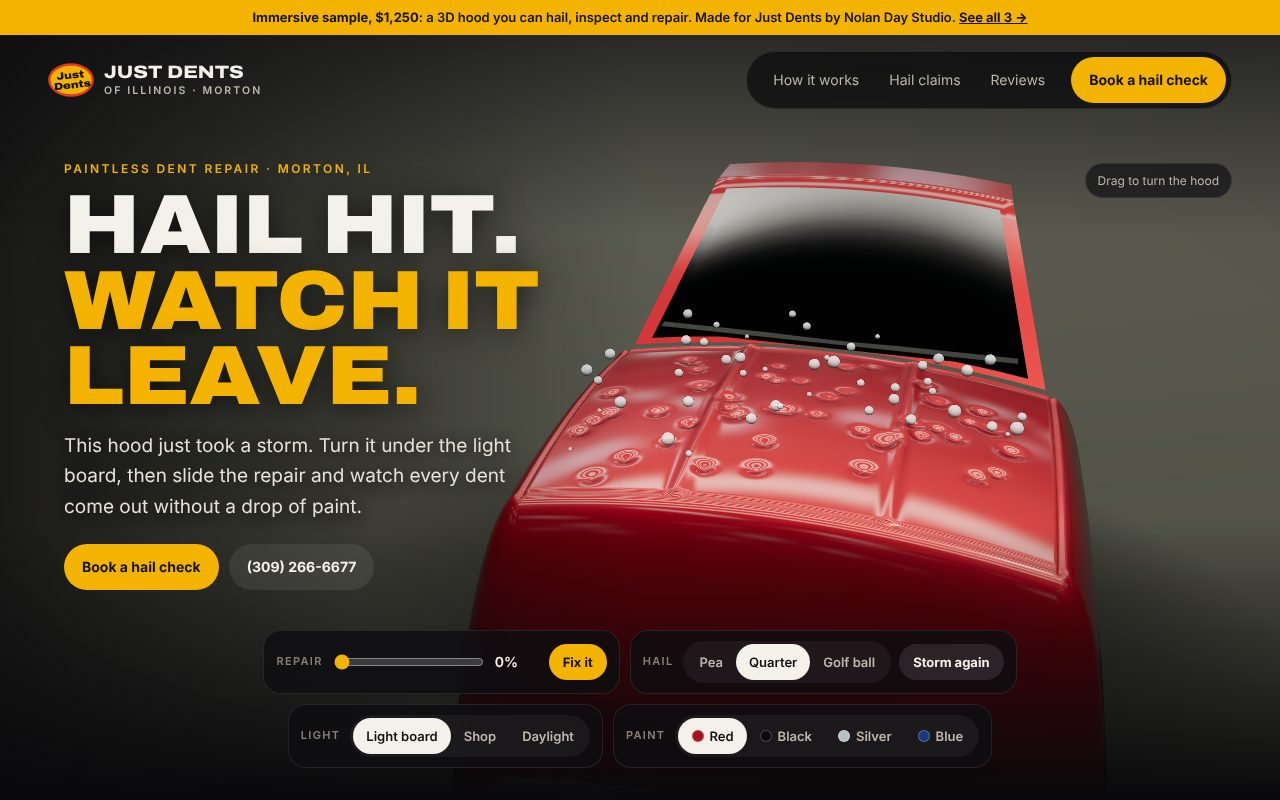
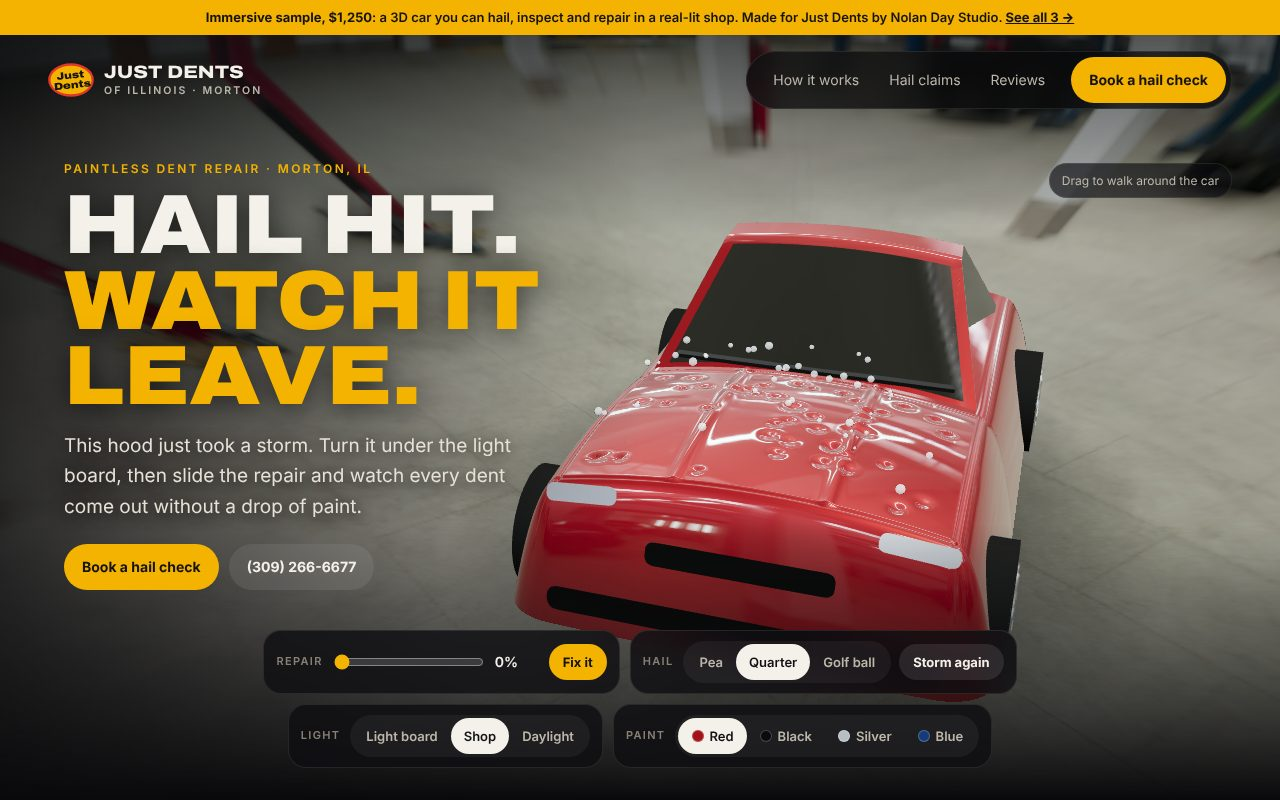
feat: $1,250 Just Dents car now sits in a full 3D auto shop
- Ground-projected CC0 auto-shop HDRI: the car stands on the shop floor with lifts and bays around it (street for Daylight)
- Whole car: body behind the hood, side and rear glass, end cap, wheels with rims, headlights, grille and lower trim; body clipped at ride height
- Opens in the Shop view; light board and daylight are one tap away
- Fixed far-plane clipping that blacked out part of the backdrop; refreshed thumbnails

Claude-Session: https://claude.ai/code/session_015BTMUTNwHUdjmbTQmNjyDW

diff --git a/justdents1250/scene.js b/justdents1250/scene.js
@@ -4,6 +4,7 @@
 import * as THREE from "three";
 import {OrbitControls} from "three/addons/controls/OrbitControls.js";
 import {RGBELoader} from "three/addons/loaders/RGBELoader.js";
+import {GroundProjectedSkybox} from "three/addons/objects/GroundProjectedSkybox.js";
 
 const S=window.HOOD;
 const canvas=document.getElementById("c"),host=document.querySelector(".scene");
@@ -11,10 +12,10 @@ const reduce=matchMedia("(prefers-reduced-motion: reduce)").matches;
 const small=innerWidth<760||matchMedia("(pointer: coarse)").matches;
 let R;try{R=new THREE.WebGLRenderer({canvas,antialias:!small,alpha:true,powerPreference:"high-performance"})}catch(e){host.classList.add("noGL");throw e}
 R.setPixelRatio(Math.min(devicePixelRatio,small?1.5:2));
-R.toneMapping=THREE.ACESFilmicToneMapping;R.toneMappingExposure=1.05;
+R.toneMapping=THREE.ACESFilmicToneMapping;R.localClippingEnabled=true;const CLIP=[new THREE.Plane(new THREE.Vector3(0,1,0),2.42)];R.toneMappingExposure=1.05;
 
 const scene=new THREE.Scene();
-const cam=new THREE.PerspectiveCamera(34,1,.1,200);
+const cam=new THREE.PerspectiveCamera(34,1,.1,600);
 const ctl=new OrbitControls(cam,canvas);ctl.enableDamping=true;ctl.dampingFactor=.07;ctl.enablePan=false;
 ctl.minPolarAngle=Math.PI*.16;ctl.maxPolarAngle=Math.PI*.44;ctl.minAzimuthAngle=-1.05;ctl.maxAzimuthAngle=1.05;
 ctl.autoRotate=!reduce;ctl.autoRotateSpeed=.35;
@@ -37,7 +38,12 @@ let envDay=pm.fromScene(day,.06).texture,envShop=null,bgShop=null,bgDay=null;sce
 // real lighting: a CC0 auto-shop HDRI for the room and its fluorescent tubes, a CC0 street HDRI for daylight
 const here=new URL(".",import.meta.url).href,hdr=new RGBELoader();
 function asEnv(t){t.mapping=THREE.EquirectangularReflectionMapping;return t}
-function setBg(){const v=S.view||"board";const bg=v==="day"?bgDay:bgShop;scene.background=bg||null;scene.backgroundBlurriness=v==="day"?.2:.24;scene.backgroundIntensity=v==="board"?.3:v==="day"?.85:.75}
+const SKY={shop:{h:4.2,r:70},day:{h:4.2,r:90}};let sky=null;
+function makeSky(t){const k=new GroundProjectedSkybox(t,{height:4.2,radius:70});
+  k.material.fragmentShader=k.material.fragmentShader.replace("camPos.y -= height;","camPos.y -= height + floorY;").replace("uniform float height;","uniform float height;uniform float floorY;uniform float dim;").replace("gl_FragColor = vec4( outcolor, 1.0 );","gl_FragColor = vec4( outcolor*dim, 1.0 );");
+  k.material.uniforms.floorY={value:-2.75};k.material.uniforms.dim={value:1};k.scale.setScalar(120);k.renderOrder=-1;scene.add(k);return k}
+function setBg(){const v=S.view||"board";const bg=v==="day"?(bgDay||bgShop):bgShop;if(!bg){scene.background=null;return}
+  if(!sky)sky=makeSky(bg);sky.material.uniforms.map.value=bg;const c=SKY[v==="day"&&bgDay?"day":"shop"];sky.height=c.h;sky.radius=c.r;sky.material.uniforms.dim.value=v==="board"?.28:v==="day"?.95:.85;scene.background=null}
 hdr.loadAsync(here+"env/autoshop_01_1k.hdr").then(t=>{bgShop=asEnv(t);envShop=pm.fromEquirectangular(t).texture;
   const sm=t.clone();sm.mapping=THREE.UVMapping;sm.needsUpdate=true;shopSphere.material.map=sm;shopSphere.material.visible=true;shopSphere.material.needsUpdate=true;
   envBoard=pm.fromScene(env,.02).texture;
@@ -59,7 +65,7 @@ function crown(x,y){const lx=Math.abs(x);let z=-.3*(x/2.8)**2-.15*((y+.3)/2)**2;
   if(y>1.9)z+=.6*(y-1.9)**2;return z}
 for(let i=0;i<N;i++){const x=pos.getX(i),y=pos.getY(i)-.3;XS[i]=x;YS[i]=y;base[i]=crown(x,y);pos.setXYZ(i,x,y,base[i])}
 geo.computeVertexNormals();
-const paint=new THREE.MeshPhysicalMaterial({color:S.paint,metalness:.5,roughness:.36,clearcoat:1,clearcoatRoughness:.02,envMapIntensity:1.25});
+const paint=new THREE.MeshPhysicalMaterial({color:S.paint,metalness:.5,roughness:.36,clearcoat:1,clearcoatRoughness:.02,envMapIntensity:1.25,clippingPlanes:CLIP});
 const hood=new THREE.Mesh(geo,paint);hood.rotation.x=-Math.PI/2;scene.add(hood);
 const bodyM=paint;
 // cabin behind the hood: painted pillars and roof with the windshield set into them, so it reads as a car
@@ -73,9 +79,39 @@ const shell=new THREE.Mesh(cabGeo(0,1.4,0),paint);shell.rotation.x=-Math.PI/2;sc
 const glass=new THREE.MeshPhysicalMaterial({color:0x07090c,metalness:.2,roughness:.03,clearcoat:1,clearcoatRoughness:.01,envMapIntensity:1.8});
 const shield=new THREE.Mesh(cabGeo(.03,.94,.2),glass);shield.rotation.x=-Math.PI/2;scene.add(shield);
 const cowl=new THREE.Mesh(new THREE.BoxGeometry(4.5,.06,.16),new THREE.MeshStandardMaterial({color:0x0b0b0c,roughness:.6}));cowl.position.set(0,Z0+.05,-2.2);scene.add(cowl);
+
+// ---------- the rest of the car: body behind the hood, side and rear glass, end cap, wheels, lights, grille ----------
+const G=-2.75;// shop floor height (world y)
+const BY0=2.1,BY1=7.6;// body runs from the cowl back to the tail (hood-local y)
+function part(geo,mat){const m=new THREE.Mesh(geo,mat);hood.add(m);return m}
+{const g=new THREE.PlaneGeometry(7.2,BY1-BY0,90,20),a=g.attributes.position;for(let i=0;i<a.count;i++){const x=a.getX(i),y=a.getY(i)+(BY0+BY1)/2;a.setXYZ(i,x,y,crown(x,BY0)+.002)}g.computeVertexNormals();part(g,paint)}
+const glassS=new THREE.MeshPhysicalMaterial({color:0x07090c,metalness:.2,roughness:.04,clearcoat:1,clearcoatRoughness:.02,envMapIntensity:1.7,side:THREE.DoubleSide});
+function rearPt(u,v){const [x0,y0,z0]=cab(0,1.4,0);const hw=1.96+v*.6;return[u*hw,y0+v*1.75,(z0-.26*((u*hw/2.7)**2))-v*1.55]}
+{const g=new THREE.PlaneGeometry(1,1,20,6),a=g.attributes.position;for(let i=0;i<a.count;i++){const u=a.getX(i)*2,v=a.getY(i)+.5;a.setXYZ(i,...rearPt(u,v))}g.computeVertexNormals();part(g,glassS)}
+for(const sg of[-1,1]){const n=30,pts=[],idx=[];
+  for(let k=0;k<=n;k++){const t=k/n*1.4;const [x,y,z]=cab(sg,t,0);pts.push(x,y,z,x,y,crown(x,BY0)+.01)}
+  for(let k=0;k<=12;k++){const [x,y,z]=rearPt(sg,k/12);pts.push(x,y,z,x,y,crown(x,BY0)+.01)}
+  const m=(pts.length/6)-1;for(let k=0;k<m;k++){const a=k*2;idx.push(a,a+1,a+2,a+1,a+3,a+2)}
+  const g=new THREE.BufferGeometry();g.setAttribute("position",new THREE.Float32BufferAttribute(pts,3));g.setIndex(idx);g.computeVertexNormals();part(g,glassS)}
+{const sh=new THREE.Shape();sh.moveTo(-3.6,G-.0);for(let x=-3.6;x<=3.6001;x+=.15)sh.lineTo(x,Math.max(crown(x,BY0),G));sh.lineTo(3.6,G);sh.closePath();
+  const cap=new THREE.Mesh(new THREE.ShapeGeometry(sh),new THREE.MeshPhysicalMaterial({color:0x15100f,roughness:.5,side:THREE.DoubleSide}));cap.rotation.x=Math.PI/2;cap.position.y=BY1;hood.add(cap)}
+const tireM=new THREE.MeshStandardMaterial({color:0x101010,roughness:.88}),rimM=new THREE.MeshStandardMaterial({color:0xb9bcc0,metalness:1,roughness:.22});
+for(const wy of[-.95,5.95])for(const sg of[-1,1]){const w=new THREE.Group();
+  const t=new THREE.Mesh(new THREE.CylinderGeometry(.92,.92,.78,40),tireM);t.rotation.z=Math.PI/2;w.add(t);
+  const r=new THREE.Mesh(new THREE.CylinderGeometry(.6,.6,.84,28),rimM);r.rotation.z=Math.PI/2;w.add(r);
+  for(let k=0;k<5;k++){const sp=new THREE.Mesh(new THREE.BoxGeometry(.06,.9,.12),rimM);sp.position.x=sg*.41;sp.rotation.x=k/5*Math.PI*2;w.add(sp)}
+  w.position.set(sg*3.12,G+.92,-wy);w.rotation.x=0;scene.add(w)}
+function onSurface(mesh,x,y,lift){const e=.02,z=crown(x,y);const nx=-(crown(x+e,y)-crown(x-e,y))/(2*e),ny=-(crown(x,y+e)-crown(x,y-e))/(2*e);
+  const n=new THREE.Vector3(nx,ny,1).normalize();mesh.position.set(x,y,z+lift);mesh.lookAt(mesh.position.clone().add(n));hood.add(mesh);return mesh}
+const lampM=new THREE.MeshPhysicalMaterial({color:0x9aa3ad,emissive:0xdfeaff,emissiveIntensity:.4,metalness:.9,roughness:.06,clearcoat:1});
+function rr(w,h,r){const sh=new THREE.Shape();sh.moveTo(-w/2+r,-h/2);sh.lineTo(w/2-r,-h/2);sh.quadraticCurveTo(w/2,-h/2,w/2,-h/2+r);sh.lineTo(w/2,h/2-r);sh.quadraticCurveTo(w/2,h/2,w/2-r,h/2);sh.lineTo(-w/2+r,h/2);sh.quadraticCurveTo(-w/2,h/2,-w/2,h/2-r);sh.lineTo(-w/2,-h/2+r);sh.quadraticCurveTo(-w/2,-h/2,-w/2+r,-h/2);return new THREE.ShapeGeometry(sh,6)}
+for(const sg of[-1,1]){const l=new THREE.Mesh(rr(1.05,.26,.12),lampM);onSurface(l,sg*2.3,-2.12,.015);l.rotateZ(sg*.08)}
+const trimM=new THREE.MeshStandardMaterial({color:0x0c0c0d,metalness:.4,roughness:.45});
+onSurface(new THREE.Mesh(rr(2.6,.34,.14),trimM),0,-2.36,.015);
+onSurface(new THREE.Mesh(rr(5.4,.36,.18),trimM),0,-2.52,.015);
 // soft contact shadow
 const sc=document.createElement("canvas");sc.width=sc.height=128;const sx=sc.getContext("2d"),gr=sx.createRadialGradient(64,64,4,64,64,64);gr.addColorStop(0,"rgba(0,0,0,.8)");gr.addColorStop(1,"rgba(0,0,0,0)");sx.fillStyle=gr;sx.fillRect(0,0,128,128);
-const shadow=new THREE.Mesh(new THREE.PlaneGeometry(11,8),new THREE.MeshBasicMaterial({map:new THREE.CanvasTexture(sc),transparent:true,depthWrite:false}));shadow.rotation.x=-Math.PI/2;shadow.position.y=-2.4;scene.add(shadow);
+const shadow=new THREE.Mesh(new THREE.PlaneGeometry(11,8),new THREE.MeshBasicMaterial({map:new THREE.CanvasTexture(sc),transparent:true,depthWrite:false}));shadow.rotation.x=-Math.PI/2;shadow.position.y=-2.73;shadow.scale.set(1.05,1.8,1);shadow.position.z=-2.4;scene.add(shadow);
 
 // the light board itself, hanging above the hood
 const bc=document.createElement("canvas");bc.width=512;bc.height=256;const bx=bc.getContext("2d");bx.fillStyle="#0d0c0a";bx.fillRect(0,0,512,256);
@@ -115,7 +151,7 @@ addEventListener("hoodauto",()=>{if(S.fix>=100)storm();S.anim=true;S.a0=performa
 // ---------- frame ----------
 function fit(){const w=host.clientWidth,h=host.clientHeight;R.setSize(w,h,false);cam.aspect=w/h;
   const narrow=w/h<1;cam.fov=narrow?46:34;cam.updateProjectionMatrix();
-  board.visible=pole.visible=false;const dist=narrow?16.5:12.5;cam.position.set(narrow?0:1.6,dist*(narrow?.6:.5),dist);ctl.target.set(narrow?0:-1.9,narrow?2.6:-.25,.2);ctl.update()}
+  board.visible=pole.visible=false;const dist=narrow?19:16;cam.position.set(narrow?0:3.4,dist*(narrow?.55:.5),dist);ctl.target.set(narrow?0:-2.7,narrow?1.2:-1.1,-1.6);ctl.update()}
 addEventListener("resize",fit);fit();
 let vis=true;new IntersectionObserver(e=>{vis=e[0].isIntersecting}).observe(host);
 let last=performance.now(),sent=0;

diff --git a/justdents1250/index.html b/justdents1250/index.html
@@ -87,11 +87,11 @@ footer{border-top:1px solid var(--line);padding:28px clamp(16px,5vw,64px) 40px;c
 <script type="application/ld+json">{"@context":"https://schema.org","@type":"AutoBodyShop","name":"Just Dents of Illinois, Inc.","description":"Paintless dent repair in Morton, Illinois: hail damage, door dings, dents and creases, and dealer lot work.","telephone":"+1-309-266-6677","address":{"@type":"PostalAddress","streetAddress":"832 N Main St","addressLocality":"Morton","addressRegion":"IL","postalCode":"61550","addressCountry":"US"},"areaServed":["Morton","Washington","East Peoria","Peoria","Pekin","Tremont","Deer Creek","Mackinaw","Groveland","Eureka","Goodfield","Metamora","Germantown Hills"],"aggregateRating":{"@type":"AggregateRating","ratingValue":"5.0","reviewCount":"16"},"makesOffer":[{"@type":"Offer","itemOffered":{"@type":"Service","name":"Paintless dent repair"}},{"@type":"Offer","itemOffered":{"@type":"Service","name":"Hail damage repair"}},{"@type":"Offer","itemOffered":{"@type":"Service","name":"Door ding repair"}},{"@type":"Offer","itemOffered":{"@type":"Service","name":"Dealer and lot dent service"}}]}</script>
 </head>
 <body>
-<div class="demo"><b>Immersive sample, $1,250</b><span class="lg">: a 3D hood you can hail, inspect and repair. Made for Just Dents by Nolan Day Studio</span>. <a href="https://nday27.github.io/meet/?s=just-dents-of-illinois-inc-morton">See all 3 →</a></div>
+<div class="demo"><b>Immersive sample, $1,250</b><span class="lg">: a 3D car you can hail, inspect and repair in a real-lit shop. Made for Just Dents by Nolan Day Studio</span>. <a href="https://nday27.github.io/meet/?s=just-dents-of-illinois-inc-morton">See all 3 →</a></div>
 <nav><a class="logo" href="#"><svg viewBox="0 0 52 38" aria-hidden="true"><ellipse cx="26" cy="19" rx="24.5" ry="17.5" fill="#F5B301" stroke="#E0382B" stroke-width="2.6"/><text x="26" y="17.5" font-family="Archivo,Arial" font-weight="900" font-size="11.5" text-anchor="middle" fill="#15130F" transform="rotate(-6 26 19)">Just</text><text x="27" y="28.5" font-family="Archivo,Arial" font-weight="900" font-size="11.5" text-anchor="middle" fill="#15130F" transform="rotate(-6 26 19)">Dents</text></svg><span>Just Dents<small>of Illinois · Morton</small></span></a><div class="links"><a href="#how">How it works</a><a href="#claim">Hail claims</a><a href="#reviews">Reviews</a><a class="pillbtn" href="#book" style="margin-left:22px">Book<span class="lg">&nbsp;a hail check</span></a></div></nav>
 
 <header class="scene" id="top">
-  <canvas id="c" aria-label="Interactive 3D car hood under a dent repair light board. Drag to turn it. Use the controls to drop hail, change the paint color and slide the repair from dented to fixed."></canvas>
+  <canvas id="c" aria-label="Interactive 3D car in an auto shop, with a dent repair light board view. Drag to walk around it. Use the controls to drop hail, change the paint color and slide the repair from dented to fixed."></canvas>
   <div class="fallback"><div><b style="font:900 30px Archivo,sans-serif;color:#fff;text-transform:uppercase">Just Dents of Illinois</b><br>The 3D preview isn't available on this device. Everything below still works.</div></div>
   <div class="veil"></div>
   <div class="hcopy">
@@ -100,11 +100,11 @@ footer{border-top:1px solid var(--line);padding:28px clamp(16px,5vw,64px) 40px;c
     <p class="lede">This hood just took a storm. Turn it under the light board, then slide the repair and watch every dent come out without a drop of paint.</p>
     <div class="hcta"><a class="pillbtn" href="#book">Book a hail check</a><a class="pillbtn ghost" href="tel:+13092666677">(309) 266-6677</a></div>
   </div>
-  <div class="hint" id="hint">Drag to turn the hood</div>
+  <div class="hint" id="hint">Drag to walk around the car</div>
   <div class="dock" role="group" aria-label="Scene controls">
     <div class="panel"><label for="fix">Repair</label><input type="range" id="fix" min="0" max="100" step="1" value="0"><span class="out" id="fout">0%</span><button class="act" type="button" id="auto">Fix it</button></div>
     <div class="panel"><span class="lab">Hail</span><div class="seg" id="hail"><button aria-pressed="false" data-v="1">Pea</button><button aria-pressed="true" data-v="2">Quarter</button><button aria-pressed="false" data-v="3">Golf ball</button></div><button class="act sec" type="button" id="storm">Storm again</button></div>
-    <div class="panel"><span class="lab">Light</span><div class="seg" id="view"><button aria-pressed="true" data-v="board">Light board</button><button aria-pressed="false" data-v="shop">Shop</button><button aria-pressed="false" data-v="day">Daylight</button></div></div>
+    <div class="panel"><span class="lab">Light</span><div class="seg" id="view"><button aria-pressed="false" data-v="board">Light board</button><button aria-pressed="true" data-v="shop">Shop</button><button aria-pressed="false" data-v="day">Daylight</button></div></div>
     <div class="panel"><span class="lab">Paint</span><div class="seg" id="paint"><button aria-pressed="true" data-v="#a3121a"><i class="sw" style="background:#a3121a"></i>Red</button><button aria-pressed="false" data-v="#0b0b0d"><i class="sw" style="background:#0b0b0d"></i>Black</button><button aria-pressed="false" data-v="#b9bec4"><i class="sw" style="background:#b9bec4"></i>Silver</button><button aria-pressed="false" data-v="#173a78"><i class="sw" style="background:#173a78"></i>Blue</button></div></div>
   </div>
 </header>
@@ -127,7 +127,7 @@ footer{border-top:1px solid var(--line);padding:28px clamp(16px,5vw,64px) 40px;c
       <div class="crow"><span>Hail size</span><b id="cs">Quarter</b></div>
       <div class="crow"><span>Repair method</span><b>Paintless, from behind</b></div>
       <div class="crow"><span>Factory paint</span><b>Kept</b></div>
-      <div class="crow"><span>Inspection light</span><b id="cv">Light board: every dent shows</b></div>
+      <div class="crow"><span>Inspection light</span><b id="cv">Shop lights: most dents show</b></div>
       <div class="meter"><i id="cm"></i></div>
       <div class="big"><span>Repaired</span><b id="cp">0%</b></div>
       <p class="note">A demo of the 3D model on this page. A real hail check is done in person, panel by panel, by Kurt.</p>
@@ -171,7 +171,7 @@ footer{border-top:1px solid var(--line);padding:28px clamp(16px,5vw,64px) 40px;c
   if(!reduce)document.querySelectorAll("[data-tilt]").forEach(function(c){c.addEventListener("pointermove",function(e){var r=c.getBoundingClientRect(),x=(e.clientX-r.left)/r.width-.5,y=(e.clientY-r.top)/r.height-.5;c.style.transform="perspective(700px) rotateY("+(x*10)+"deg) rotateX("+(-y*10)+"deg)"});c.addEventListener("pointerleave",function(){c.style.transform=""})});
   document.getElementById("tf").addEventListener("submit",function(e){e.preventDefault();document.getElementById("tok").hidden=false});
   // shared state: the 3D scene and the claim card both read window.HOOD
-  var S=window.HOOD={fix:0,hail:2,paint:"#a3121a",dents:0},names={1:"Pea",2:"Quarter",3:"Golf ball"};
+  var S=window.HOOD={fix:0,hail:2,paint:"#a3121a",dents:0,view:"shop"},names={1:"Pea",2:"Quarter",3:"Golf ball"};
   function card(){document.getElementById("cn").textContent=S.dents;document.getElementById("cs").textContent=names[S.hail];document.getElementById("cp").textContent=Math.round(S.fix)+"%";document.getElementById("cm").style.width=S.fix+"%";document.getElementById("fout").textContent=Math.round(S.fix)+"%";document.getElementById("fix").value=Math.round(S.fix)}
   window.addEventListener("hoodstate",card);
   function seg(id,cb){var w=document.getElementById(id);w.addEventListener("click",function(e){var b=e.target.closest("button");if(!b)return;w.querySelectorAll("button").forEach(function(x){x.setAttribute("aria-pressed",x===b)});cb(b.dataset.v)})}
